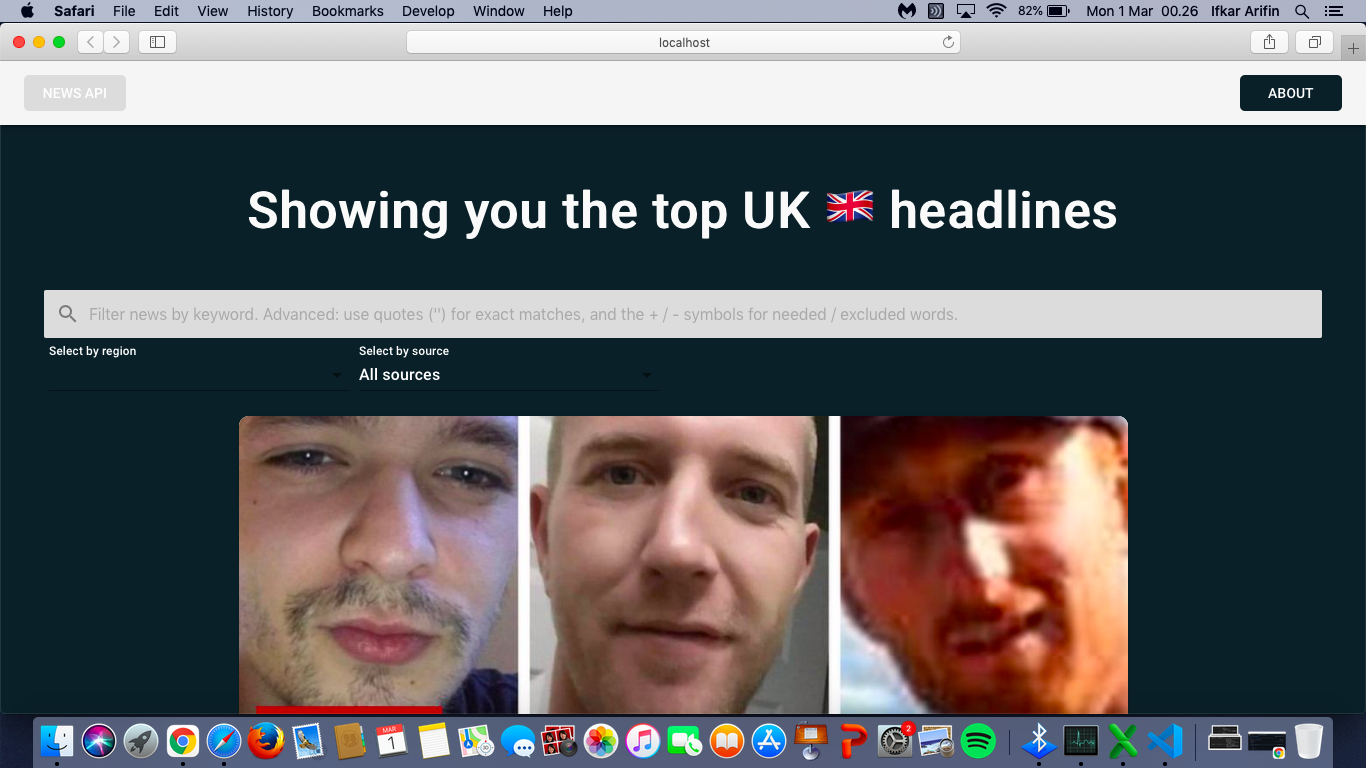
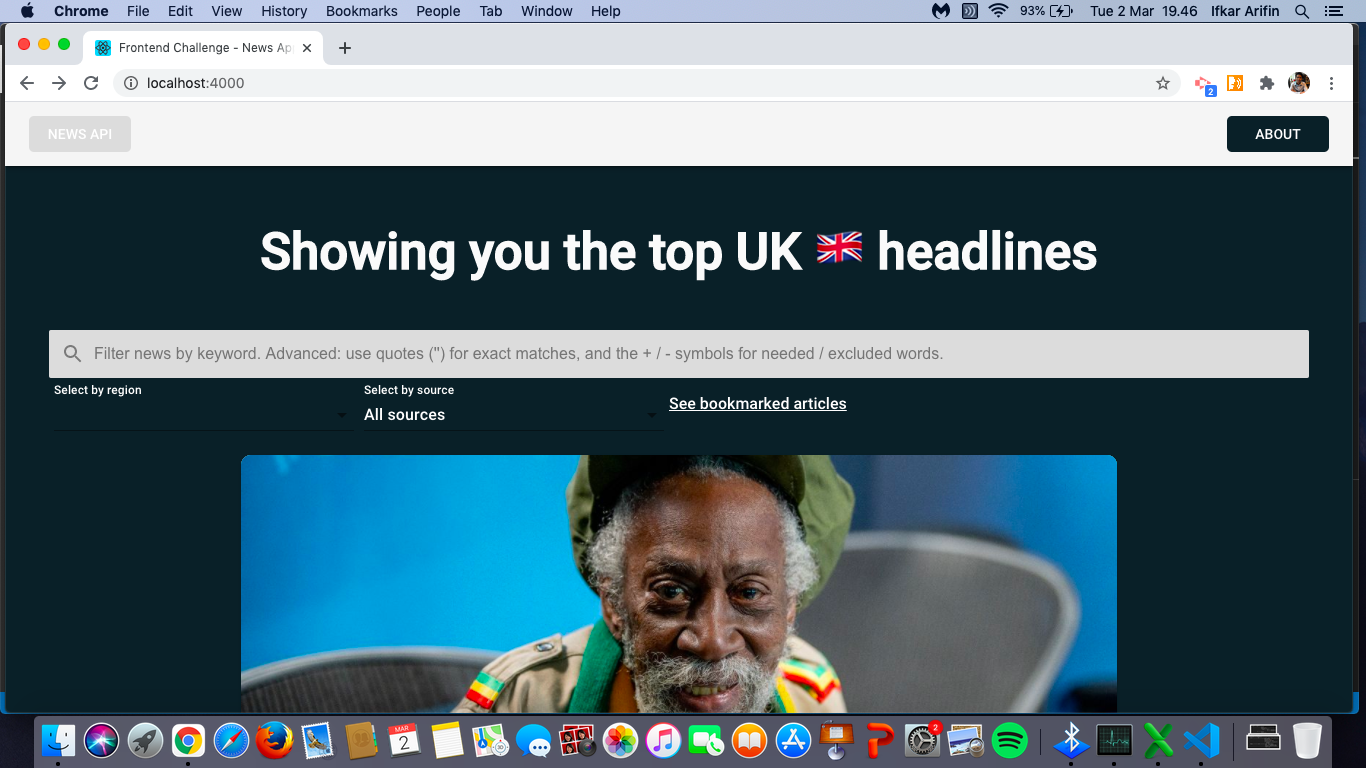
delete bookmark functionality and aria-labels updated

diff --git a/news-app-react/src/views/Bookmarked.js b/news-app-react/src/views/Bookmarked.js
@@ -1,10 +1,19 @@
 import React, {useState, useEffect} from 'react';
 import Article from '../components/Article';
 import firebase from 'firebase/app';
+import styled from 'styled-components';
+import Clear from '@material-ui/icons/Clear';
 import 'firebase/firestore';
 
 const Bookmarked = () => {
   const [bookmarked_list, setBookmarked_list] = useState([]);
+
+  //Page automatically reloads after delete
+  const HandleDelete = (title) => {
+    firebase.firestore().collection('bookmarked').doc(title).delete().then(() => {
+      alert('Article removed from bookmarks'); 
+    })
+  }
 
   useEffect(() => {
     const BookmarkList = firebase.firestore().collection('bookmarked').onSnapshot(querySnapshot => {
@@ -20,10 +29,33 @@ const Bookmarked = () => {
   }, []);
 
   return (
-    bookmarked_list.map((article, index) => (
-      <Article key={index} article={article}></Article>
-    ))
+    <div aria-label={`Showing you your bookmarked articles. You have ${bookmarked_list.length} articles bookmarked`}>{/*<-- parent div for aria-label*/}
+      <PageTitle>Bookmarked Articles</PageTitle>
+      {bookmarked_list.map((article, index) => (
+        <BookmarkedArticles key={index}>
+          <Article article={article}></Article>
+          <DeleteBtn onClick={() => HandleDelete(article.title)} aria-label={`Click to remove article from bookmarks. The title of this article is ${article.title}`}>
+            <Clear style={{color:'white'}}></Clear>
+          </DeleteBtn>
+        </BookmarkedArticles>
+      ))}
+    </div>
   )
 }
+
+const PageTitle = styled.h1`
+  color: white;
+  margin: auto;
+`;
+
+const BookmarkedArticles = styled.section`
+  display: flex;
+`;
+
+const DeleteBtn = styled.button`
+  background: none;
+  height: 30;
+  margin: auto;
+`
 
 export default Bookmarked;

diff --git a/news-app-react/firestore_api/api_keys.js b/news-app-react/firestore_api/api_keys.js
@@ -1,11 +1,11 @@
 var firebaseConfig = {
-  apiKey: 'AIzaSyClPzA7TLw-V22O6rizZLADI2-FtG-cO_s',
-  authDomain: 'news-reader-bookmarks.firebaseapp.com',
-  projectId: 'news-reader-bookmarks',
-  storageBucket: 'news-reader-bookmarks.appspot.com',
-  messagingSenderId: '763007544847',
-  appId: '1:763007544847:web:5409796d8f3c5d8100fd7a',
-  measurementId: 'G-FV6E6VPC36'
-};
+  apiKey: 'AIzaSyCKL-_3OhCPcxLyuq7e-K7FHyVswb4v38k',
+  authDomain: 'news-reader-8ffb7.firebaseapp.com',
+  projectId: 'news-reader-8ffb7',
+  storageBucket: 'news-reader-8ffb7.appspot.com',
+  messagingSenderId: '300884544849',
+  appId: '1:300884544849:web:7200ef8393c10f98d3d770',
+  measurementId: 'G-WCPVB83C7Z'
+}
 
 export default firebaseConfig;

diff --git a/news-app-react/src/components/Article.js b/news-app-react/src/components/Article.js
@@ -62,7 +62,8 @@ function Article({ article }) {
             </CardButton>
             <button 
               style={{backgroundColor: '#0F2027', marginLeft: 'auto'}}
-              onClick={() => handleSubmit()}>
+              onClick={() => handleSubmit()}
+              aria-label='Click to bookmark'>
               <Bookmark style={{color: 'white'}}></Bookmark>
             </button>
           </ActionArea>
